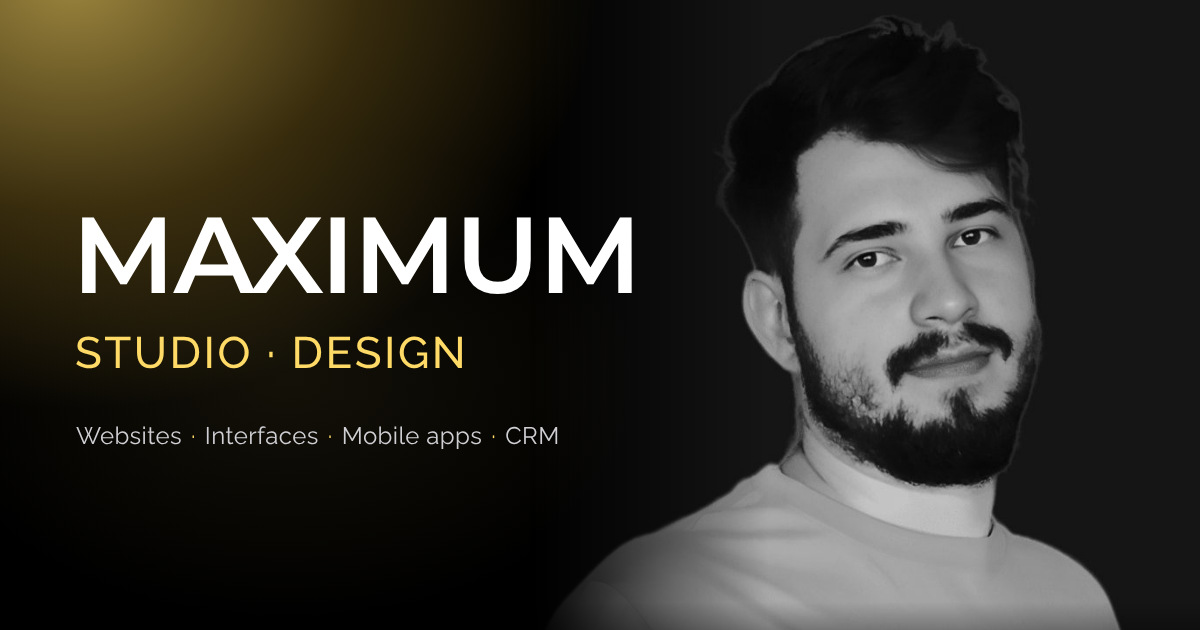
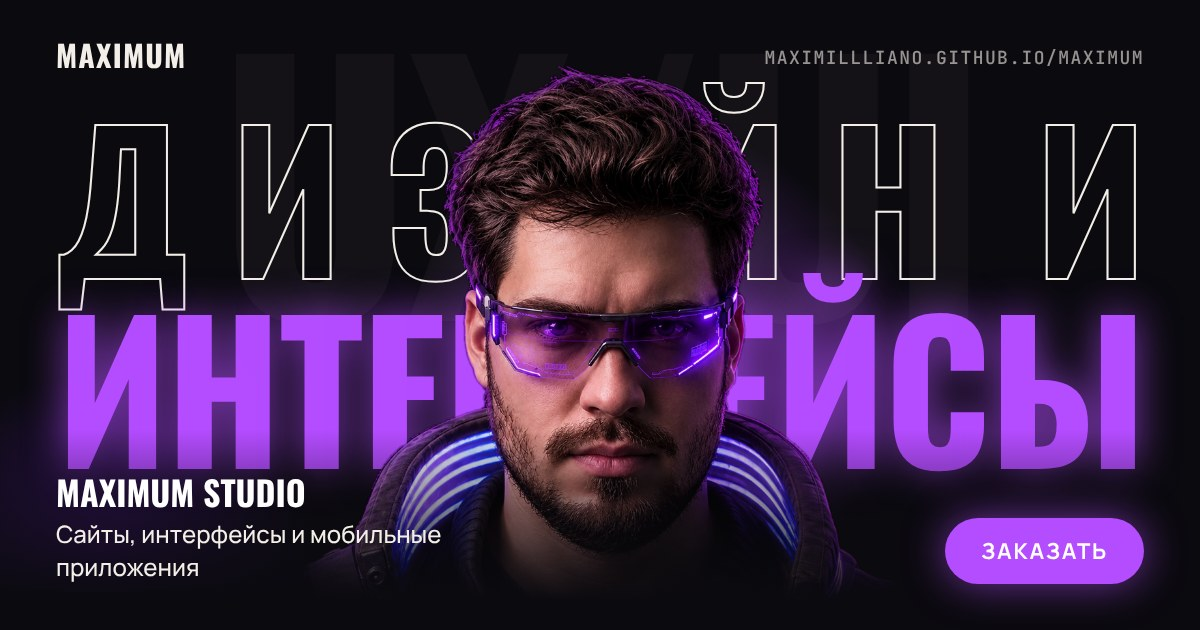
New Open Graph covers (RU/EN) in v2 style with portrait
Claude-Session: https://claude.ai/code/session_016mbQdegGQk4836ehLAt8v1

diff --git a/v2/og-src.html b/v2/og-src.html
@@ -1,0 +1,24 @@
+<!doctype html><meta charset="utf-8"><link rel="stylesheet" href="css/fonts.css">
+<style>
+*{box-sizing:border-box;margin:0}
+body{width:1200px;height:630px;overflow:hidden;background:#0B0A0F;position:relative;font-family:'Manrope',sans-serif;color:#f3efe8}
+.g1{position:absolute;left:300px;top:20px;width:700px;height:700px;background:radial-gradient(closest-side,rgba(180,76,255,.55),transparent 70%)}
+.g2{position:absolute;left:-200px;top:300px;width:600px;height:500px;background:radial-gradient(closest-side,rgba(123,34,230,.35),transparent 70%)}
+.bg{position:absolute;left:0;right:0;top:40px;text-align:center;font:700 330px/.8 'Oswald';color:rgba(243,239,232,.04);letter-spacing:-.02em}
+.h{position:absolute;left:56px;width:1088px;display:flex;font:700 188px/1 'Oswald';text-transform:uppercase;letter-spacing:-.015em;white-space:nowrap}
+.h1{top:98px;color:transparent;-webkit-text-stroke:2px #f3efe8}
+.h2{top:288px;color:#b44cff;text-shadow:0 0 40px rgba(180,76,255,.7)}
+.me{position:absolute;left:50%;top:50px;height:760px;transform:translateX(-50%)}
+.fade{position:absolute;left:0;right:0;bottom:0;height:200px;background:linear-gradient(transparent,#0B0A0F 85%)}
+.logo{position:absolute;left:56px;top:40px;font:700 30px/1 'Oswald';letter-spacing:.04em;z-index:5}
+.tag{position:absolute;left:56px;bottom:46px;z-index:5;font:500 24px/1.4 'Manrope';max-width:470px}
+.tag b{display:block;font:700 34px/1.1 'Oswald';text-transform:uppercase;color:#fff;margin-bottom:6px}
+.pill{position:absolute;right:56px;bottom:46px;z-index:5;background:#b44cff;color:#fff;font:700 22px/1 'Manrope';letter-spacing:.08em;text-transform:uppercase;padding:22px 36px;border-radius:99px;box-shadow:0 0 40px rgba(180,76,255,.6)}
+.url{position:absolute;right:56px;top:46px;z-index:5;font:500 18px 'JetBrains Mono';opacity:.6;letter-spacing:.08em}
+</style>
+<div class="g2"></div><div class="g1"></div><div class="bg">UX/UI</div>
+<div class="h h1">Дизайн и</div><div class="h h2">интерфейсы</div>
+<img class="me" src="img/me.webp"><div class="fade"></div>
+<div class="logo">MAXIMUM</div><div class="url">MAXIMILLLIANO.GITHUB.IO/MAXIMUM</div>
+<div class="tag"><b>Maximum Studio</b>@@TAG@@</div><div class="pill">@@CTA@@</div>
+<script>document.fonts.ready.then(()=>{document.querySelectorAll(".h").forEach((e,k)=>{e.innerHTML=[...e.textContent].map(c=>"<span>"+c+"</span>").join("");e.style.fontSize="190px";const sp=[...e.querySelectorAll("span")];let w=0;sp.forEach(x=>w+=x.getBoundingClientRect().width);if(w>1088){e.style.fontSize=190*1088/w+"px"}else{e.style.justifyContent="space-between"}});document.body.dataset.ok=1})</script>

diff --git a/i18n/seo-ru.html b/i18n/seo-ru.html
@@ -12,13 +12,13 @@
 <meta property="og:title" content="Maximum Studio — веб-студия: сайты, интерфейсы, приложения">
 <meta property="og:description" content="Разрабатываем и создаем проекты вашей мечты на максимум! Сайты, интернет-магазины, мобильные приложения, CRM.">
 <meta property="og:url" content="https://maximillliano.github.io/maximum/">
-<meta property="og:image" content="https://maximillliano.github.io/maximum/img/og-cover.jpg?v=20261022c">
+<meta property="og:image" content="https://maximillliano.github.io/maximum/img/og-cover.jpg?v=20261111">
 <meta property="og:image:type" content="image/jpeg"><meta property="og:image:width" content="1200"><meta property="og:image:height" content="630">
 <meta property="og:image:alt" content="Maximum Studio — веб-студия: сайты, интерфейсы, мобильные приложения">
 <meta name="twitter:card" content="summary_large_image">
 <meta name="twitter:title" content="Maximum Studio — веб-студия">
 <meta name="twitter:description" content="Разрабатываем и создаем проекты вашей мечты на максимум! Сайты, интернет-магазины, мобильные приложения, CRM.">
-<meta name="twitter:image" content="https://maximillliano.github.io/maximum/img/og-cover.jpg?v=20261022c">
+<meta name="twitter:image" content="https://maximillliano.github.io/maximum/img/og-cover.jpg?v=20261111">
 <meta name="twitter:image:alt" content="Maximum Studio — веб-студия: сайты, интерфейсы, мобильные приложения">
 <link rel="icon" href="favicon.ico" sizes="any"><link rel="icon" href="img/favicon-48.png" type="image/png" sizes="48x48"><link rel="icon" href="img/favicon-32.png" type="image/png" sizes="32x32">
 <link rel="apple-touch-icon" href="img/apple-touch-icon.png">

diff --git a/index.html b/index.html
@@ -17,13 +17,13 @@
 <meta property="og:title" content="Maximum Studio — веб-студия: сайты, интерфейсы, приложения">
 <meta property="og:description" content="Разрабатываем и создаем проекты вашей мечты на максимум! Сайты, интернет-магазины, мобильные приложения, CRM.">
 <meta property="og:url" content="https://maximillliano.github.io/maximum/">
-<meta property="og:image" content="https://maximillliano.github.io/maximum/img/og-cover.jpg?v=20261022c">
+<meta property="og:image" content="https://maximillliano.github.io/maximum/img/og-cover.jpg?v=20261111">
 <meta property="og:image:type" content="image/jpeg"><meta property="og:image:width" content="1200"><meta property="og:image:height" content="630">
 <meta property="og:image:alt" content="Maximum Studio — веб-студия: сайты, интерфейсы, мобильные приложения">
 <meta name="twitter:card" content="summary_large_image">
 <meta name="twitter:title" content="Maximum Studio — веб-студия">
 <meta name="twitter:description" content="Разрабатываем и создаем проекты вашей мечты на максимум! Сайты, интернет-магазины, мобильные приложения, CRM.">
-<meta name="twitter:image" content="https://maximillliano.github.io/maximum/img/og-cover.jpg?v=20261022c">
+<meta name="twitter:image" content="https://maximillliano.github.io/maximum/img/og-cover.jpg?v=20261111">
 <meta name="twitter:image:alt" content="Maximum Studio — веб-студия: сайты, интерфейсы, мобильные приложения">
 <link rel="icon" href="favicon.ico" sizes="any"><link rel="icon" href="img/favicon-48.png" type="image/png" sizes="48x48"><link rel="icon" href="img/favicon-32.png" type="image/png" sizes="32x32">
 <link rel="apple-touch-icon" href="img/apple-touch-icon.png">

diff --git a/i18n/ru-source.html b/i18n/ru-source.html
@@ -19,13 +19,13 @@
 <meta property="og:title" content="Maximum Studio — веб-студия: сайты, интерфейсы, приложения">
 <meta property="og:description" content="Разрабатываем и создаем проекты вашей мечты на максимум! Сайты, интернет-магазины, мобильные приложения, CRM.">
 <meta property="og:url" content="https://maximillliano.github.io/maximum/">
-<meta property="og:image" content="https://maximillliano.github.io/maximum/img/og-cover.jpg?v=20261022c">
+<meta property="og:image" content="https://maximillliano.github.io/maximum/img/og-cover.jpg?v=20261111">
 <meta property="og:image:type" content="image/jpeg"><meta property="og:image:width" content="1200"><meta property="og:image:height" content="630">
 <meta property="og:image:alt" content="Maximum Studio — веб-студия: сайты, интерфейсы, мобильные приложения">
 <meta name="twitter:card" content="summary_large_image">
 <meta name="twitter:title" content="Maximum Studio — веб-студия">
 <meta name="twitter:description" content="Разрабатываем и создаем проекты вашей мечты на максимум! Сайты, интернет-магазины, мобильные приложения, CRM.">
-<meta name="twitter:image" content="https://maximillliano.github.io/maximum/img/og-cover.jpg?v=20261022c">
+<meta name="twitter:image" content="https://maximillliano.github.io/maximum/img/og-cover.jpg?v=20261111">
 <meta name="twitter:image:alt" content="Maximum Studio — веб-студия: сайты, интерфейсы, мобильные приложения">
 
 <link rel="apple-touch-icon" href="img/apple-touch-icon.png">

diff --git a/en/index.html b/en/index.html
@@ -17,13 +17,13 @@
 <meta property="og:title" content="Maximum Studio — web studio: websites, interfaces, apps">
 <meta property="og:description" content="We build the projects of your dreams to the maximum! Websites, online stores, mobile apps and CRM.">
 <meta property="og:url" content="https://maximillliano.github.io/maximum/en/">
-<meta property="og:image" content="https://maximillliano.github.io/maximum/img/og-cover.jpg?v=20261022c">
+<meta property="og:image" content="https://maximillliano.github.io/maximum/img/og-cover-en.jpg?v=20261111">
 <meta property="og:image:type" content="image/jpeg"><meta property="og:image:width" content="1200"><meta property="og:image:height" content="630">
 <meta property="og:image:alt" content="Maximum Studio — web studio: websites, interfaces, mobile apps">
 <meta name="twitter:card" content="summary_large_image">
 <meta name="twitter:title" content="Maximum Studio — web studio: websites, interfaces, apps">
 <meta name="twitter:description" content="We build the projects of your dreams to the maximum! Websites, online stores, mobile apps and CRM.">
-<meta name="twitter:image" content="https://maximillliano.github.io/maximum/img/og-cover.jpg?v=20261022c">
+<meta name="twitter:image" content="https://maximillliano.github.io/maximum/img/og-cover-en.jpg?v=20261111">
 <meta name="twitter:image:alt" content="Maximum Studio — web studio: websites, interfaces, mobile apps">
 <link rel="icon" href="../favicon.ico" sizes="any"><link rel="icon" href="../img/favicon-48.png" type="image/png" sizes="48x48"><link rel="icon" href="../img/favicon-32.png" type="image/png" sizes="32x32">
 <link rel="apple-touch-icon" href="../img/apple-touch-icon.png">

diff --git a/i18n/seo-en.html b/i18n/seo-en.html
@@ -12,13 +12,13 @@
 <meta property="og:title" content="Maximum Studio — web studio: websites, interfaces, apps">
 <meta property="og:description" content="We build the projects of your dreams to the maximum! Websites, online stores, mobile apps and CRM.">
 <meta property="og:url" content="https://maximillliano.github.io/maximum/en/">
-<meta property="og:image" content="https://maximillliano.github.io/maximum/img/og-cover.jpg?v=20261022c">
+<meta property="og:image" content="https://maximillliano.github.io/maximum/img/og-cover-en.jpg?v=20261111">
 <meta property="og:image:type" content="image/jpeg"><meta property="og:image:width" content="1200"><meta property="og:image:height" content="630">
 <meta property="og:image:alt" content="Maximum Studio — web studio: websites, interfaces, mobile apps">
 <meta name="twitter:card" content="summary_large_image">
 <meta name="twitter:title" content="Maximum Studio — web studio: websites, interfaces, apps">
 <meta name="twitter:description" content="We build the projects of your dreams to the maximum! Websites, online stores, mobile apps and CRM.">
-<meta name="twitter:image" content="https://maximillliano.github.io/maximum/img/og-cover.jpg?v=20261022c">
+<meta name="twitter:image" content="https://maximillliano.github.io/maximum/img/og-cover-en.jpg?v=20261111">
 <meta name="twitter:image:alt" content="Maximum Studio — web studio: websites, interfaces, mobile apps">
 <link rel="icon" href="../favicon.ico" sizes="any"><link rel="icon" href="../img/favicon-48.png" type="image/png" sizes="48x48"><link rel="icon" href="../img/favicon-32.png" type="image/png" sizes="32x32">
 <link rel="apple-touch-icon" href="../img/apple-touch-icon.png">
